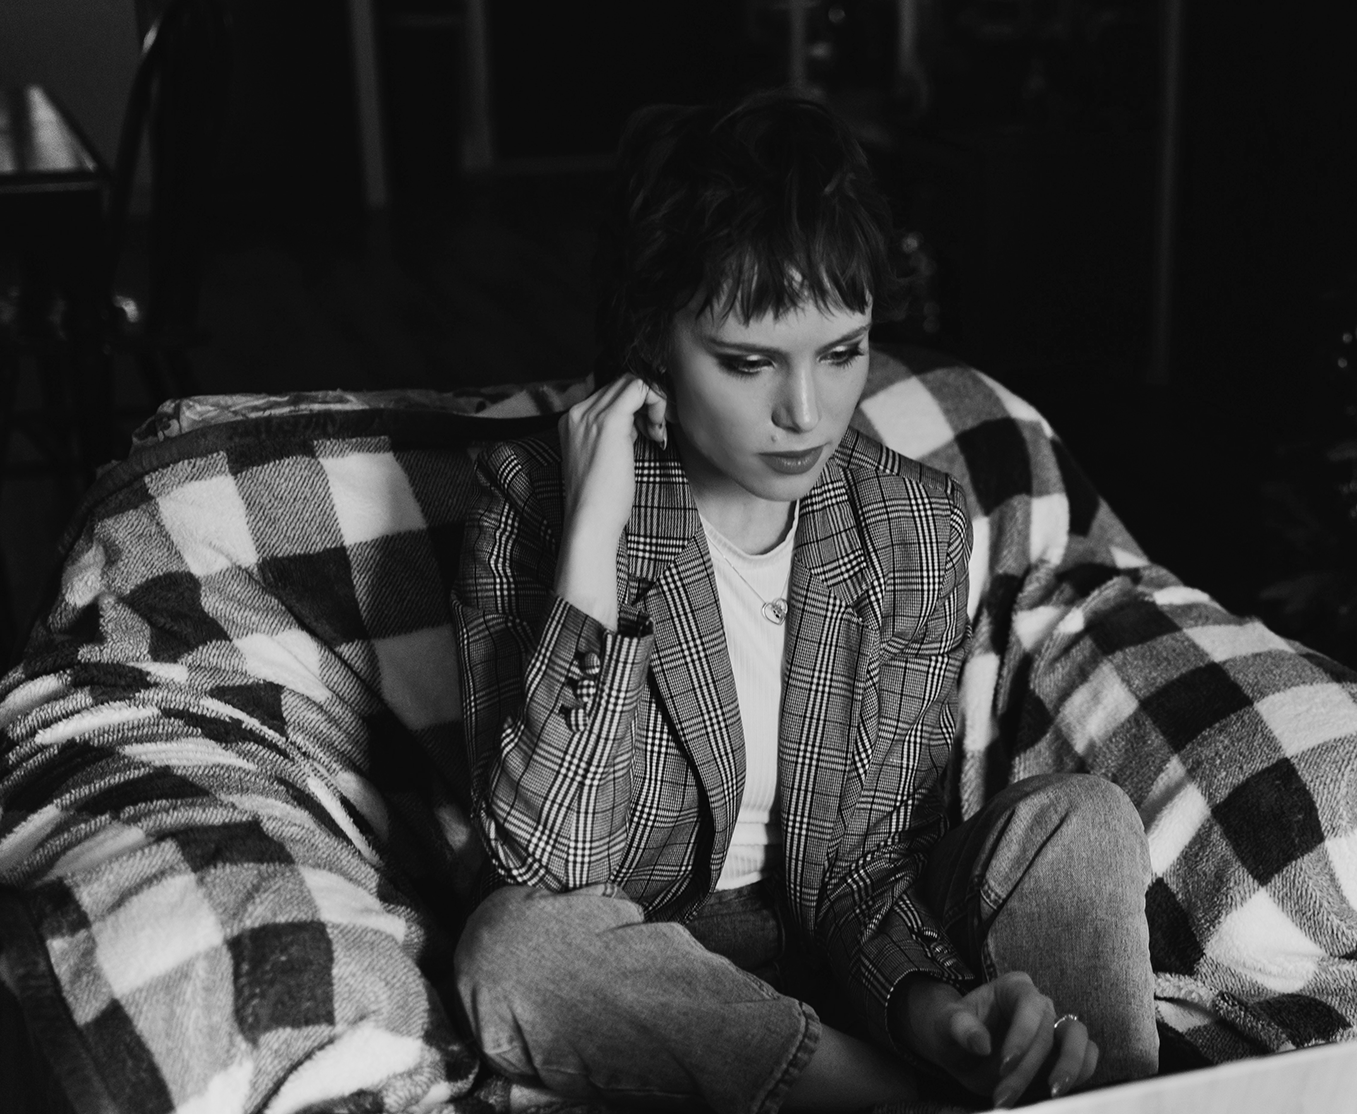
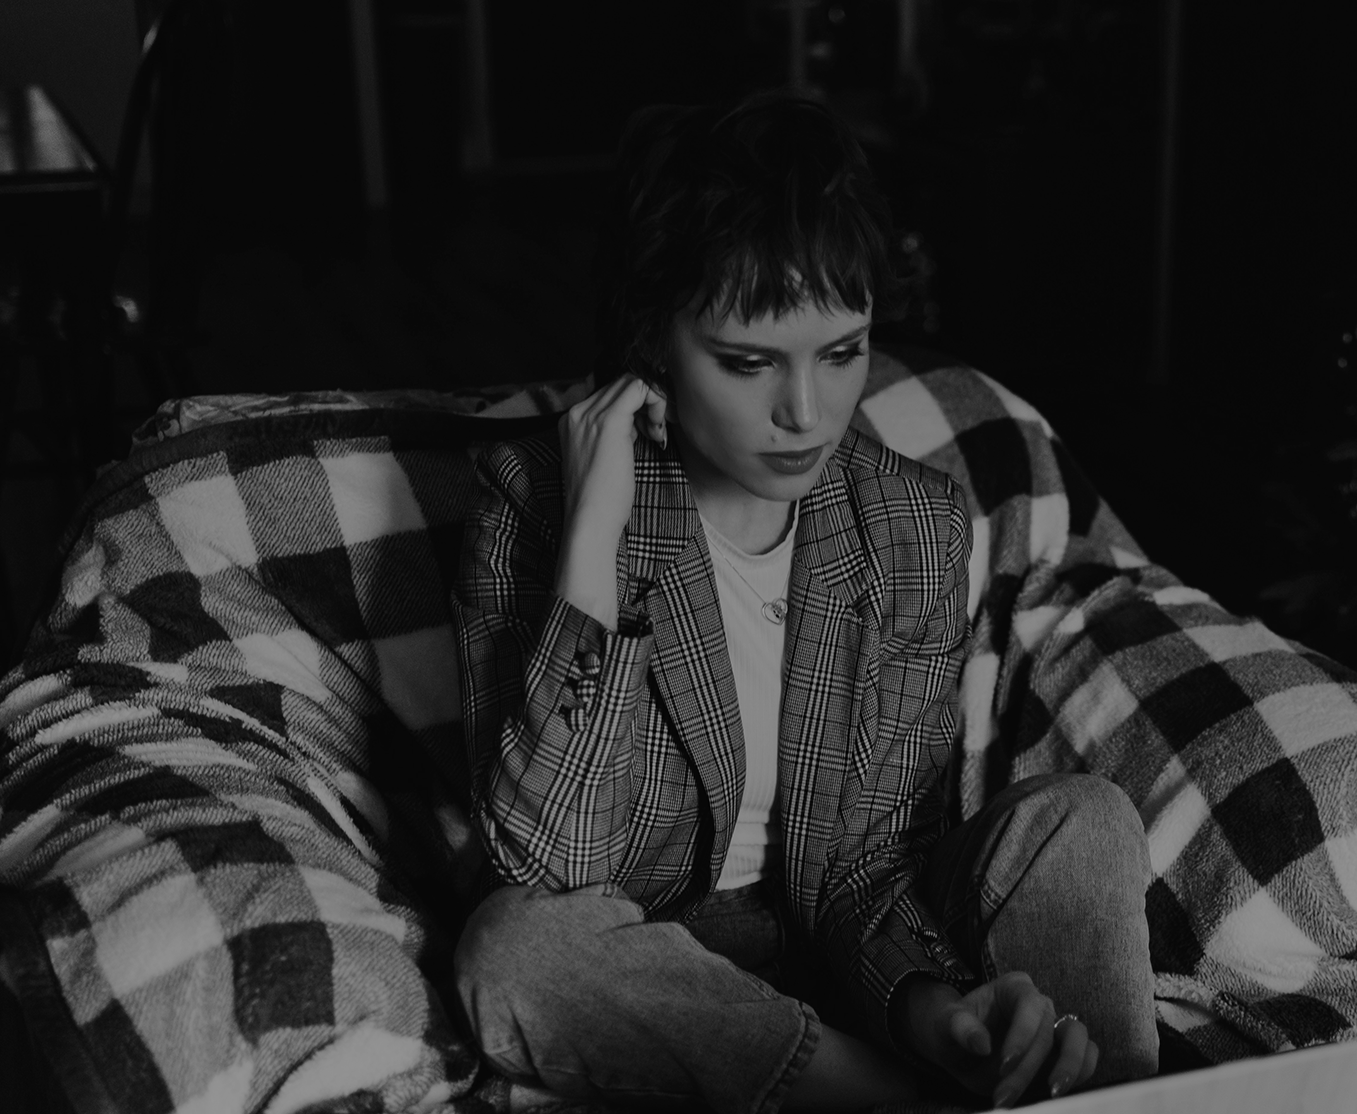
Added animated gradient and image background to about section

diff --git a/new-index.html b/new-index.html
@@ -66,10 +66,6 @@
 			</ul>
 		</nav>
 		<main id="home" class="d-flex justify-content-center">
-			<span>
-				Please pardon the mess, this site is currently under
-				construction. 😊
-			</span>
 			<h1>
 				<div class="text-center mt-5 mb-5">Hello, I am</div>
 				<img
@@ -79,35 +75,38 @@
 				/>
 			</h1>
 		</main>
-		<section class="container-fluid">
-			<h2 class="text-center">A little about me</h2>
-			<p class="text-center">
-				I'm a creative professional with experience working
-				in three different B2B industries, and I'm ready to
-				dive into tech.
-			</p>
-			<h3 class="text-center">Where I've Been</h3>
-			<p class="text-center">
-				I've designed a wide range of projects for print and
-				the web, such as magazine ads, interactive video
-				brochures, wedding invitations, digital marketing
-				campaigns, web banners, product mockups, and more.
-			</p>
-			<h3 class="text-center">Where I Want To Be</h3>
-			<p class="text-center">
-				My recent work has been focused in designing and
-				building websites from scratch. I couldn't imagine
-				doing anything else. I have the modern essential
-				coding languages under my belt so I can build
-				engaging and responsive experiences for the web, and
-				I'm always learning more.
-			</p>
-			<a
-				href="https://drive.google.com/file/d/1p6IVYBIgunk60p65Kkmt4etikwdCce3F/view?usp=sharing"
-				title="download resume"
-				class="button"
-				>Download Resume</a
-			>
+		<section class="about">
+			<div class="container-fluid">
+				<h2 class="text-center">A little about me</h2>
+				<p class="text-center">
+					I'm a creative professional with experience
+					working in three different B2B industries, and I'm
+					ready to dive into tech.
+				</p>
+				<h3 class="text-center">Where I've Been</h3>
+				<p class="text-center">
+					I've designed a wide range of projects for print
+					and the web, such as magazine ads, interactive
+					video brochures, wedding invitations, digital
+					marketing campaigns, web banners, product mockups,
+					and more.
+				</p>
+				<h3 class="text-center">Where I Want To Be</h3>
+				<p class="text-center">
+					My recent work has been focused in designing and
+					building websites from scratch. I couldn't imagine
+					doing anything else. I have the modern essential
+					coding languages under my belt so I can build
+					engaging and responsive experiences for the web,
+					and I'm always learning more.
+				</p>
+				<a
+					href="https://drive.google.com/file/d/1p6IVYBIgunk60p65Kkmt4etikwdCce3F/view?usp=sharing"
+					title="download resume"
+					class="button"
+					>Download Resume</a
+				>
+			</div>
 		</section>
 		<section>
 			<h2>Design Work</h2>

diff --git a/src/index-styles.css b/src/index-styles.css
@@ -1,9 +1,8 @@
-body {
-	font-weight: 300;
+* {
+	font-weight: 200;
 }
 
 h1 {
-	font-weight: 200;
 	animation: fadeInAnimation ease-in 525ms 1s 1 backwards;
 }
 
@@ -35,14 +34,24 @@ small {
 	max-width: 20ch;
 }
 
-.container-fluid {
+.about {
 	margin: 30vh 0;
 	min-height: 100vh;
+	background: center / cover fixed no-repeat
+		url(/src/img/portrait.png);
+}
+
+.container-fluid {
 	background-image: linear-gradient(
-		146deg,
-		rgb(0, 243, 153),
-		rgb(107, 59, 255) 93.71%
+		150deg,
+		rgba(5, 4, 43, 0.7),
+		rgba(0, 243, 153, 0.5),
+		rgba(107, 59, 255, 0.7),
+		rgba(5, 4, 43, 0.7)
 	);
+	background-size: 400% 400%;
+	min-height: 100vh;
+	animation: gradient 12s ease infinite;
 }
 
 @keyframes gradient {
@@ -57,10 +66,18 @@ small {
 	}
 }
 
+.container-fluid > * {
+	filter: drop-shadow(
+			0.25rem 0.25rem 0.75rem var(--midnight)
+		),
+		contrast(100%);
+}
+
 .container-fluid > p {
 	margin: 0 auto;
 	max-width: 60ch;
 	font-size: 18px;
+	font-weight: 400;
 }
 
 .container-fluid > h2 {
@@ -78,19 +95,22 @@ small {
 	margin: 5vh auto;
 	padding: 10px;
 	text-align: center;
-	color: var(--mint);
+	background: var(--cloud);
+	color: var(--midnight);
+	opacity: 0.6;
+	font-size: 20px;
+	font-weight: 500;
 	text-decoration: none;
 	text-transform: lowercase;
 	letter-spacing: 2px;
-	border: 2px solid var(--lavender);
 	border-radius: var(--border-radius);
 	transition: var(--transition);
 }
 
 .button:is(:hover, :focus) {
-	color: var(--lavender);
-	transform: scale(1.05);
-	border: 2px solid var(--mint);
+	color: var(--cloud);
+	background: var(--midnight);
+	transform: scale(1.03);
 }
 
 .carousel {

diff --git a/src/global-styles.css b/src/global-styles.css
@@ -66,6 +66,7 @@ nav ul li a {
 	text-decoration: none;
 	color: var(--mint);
 	font-size: 0.9em;
+	font-weight: 400;
 	letter-spacing: 0.1em;
 	transition: var(--transition);
 }
